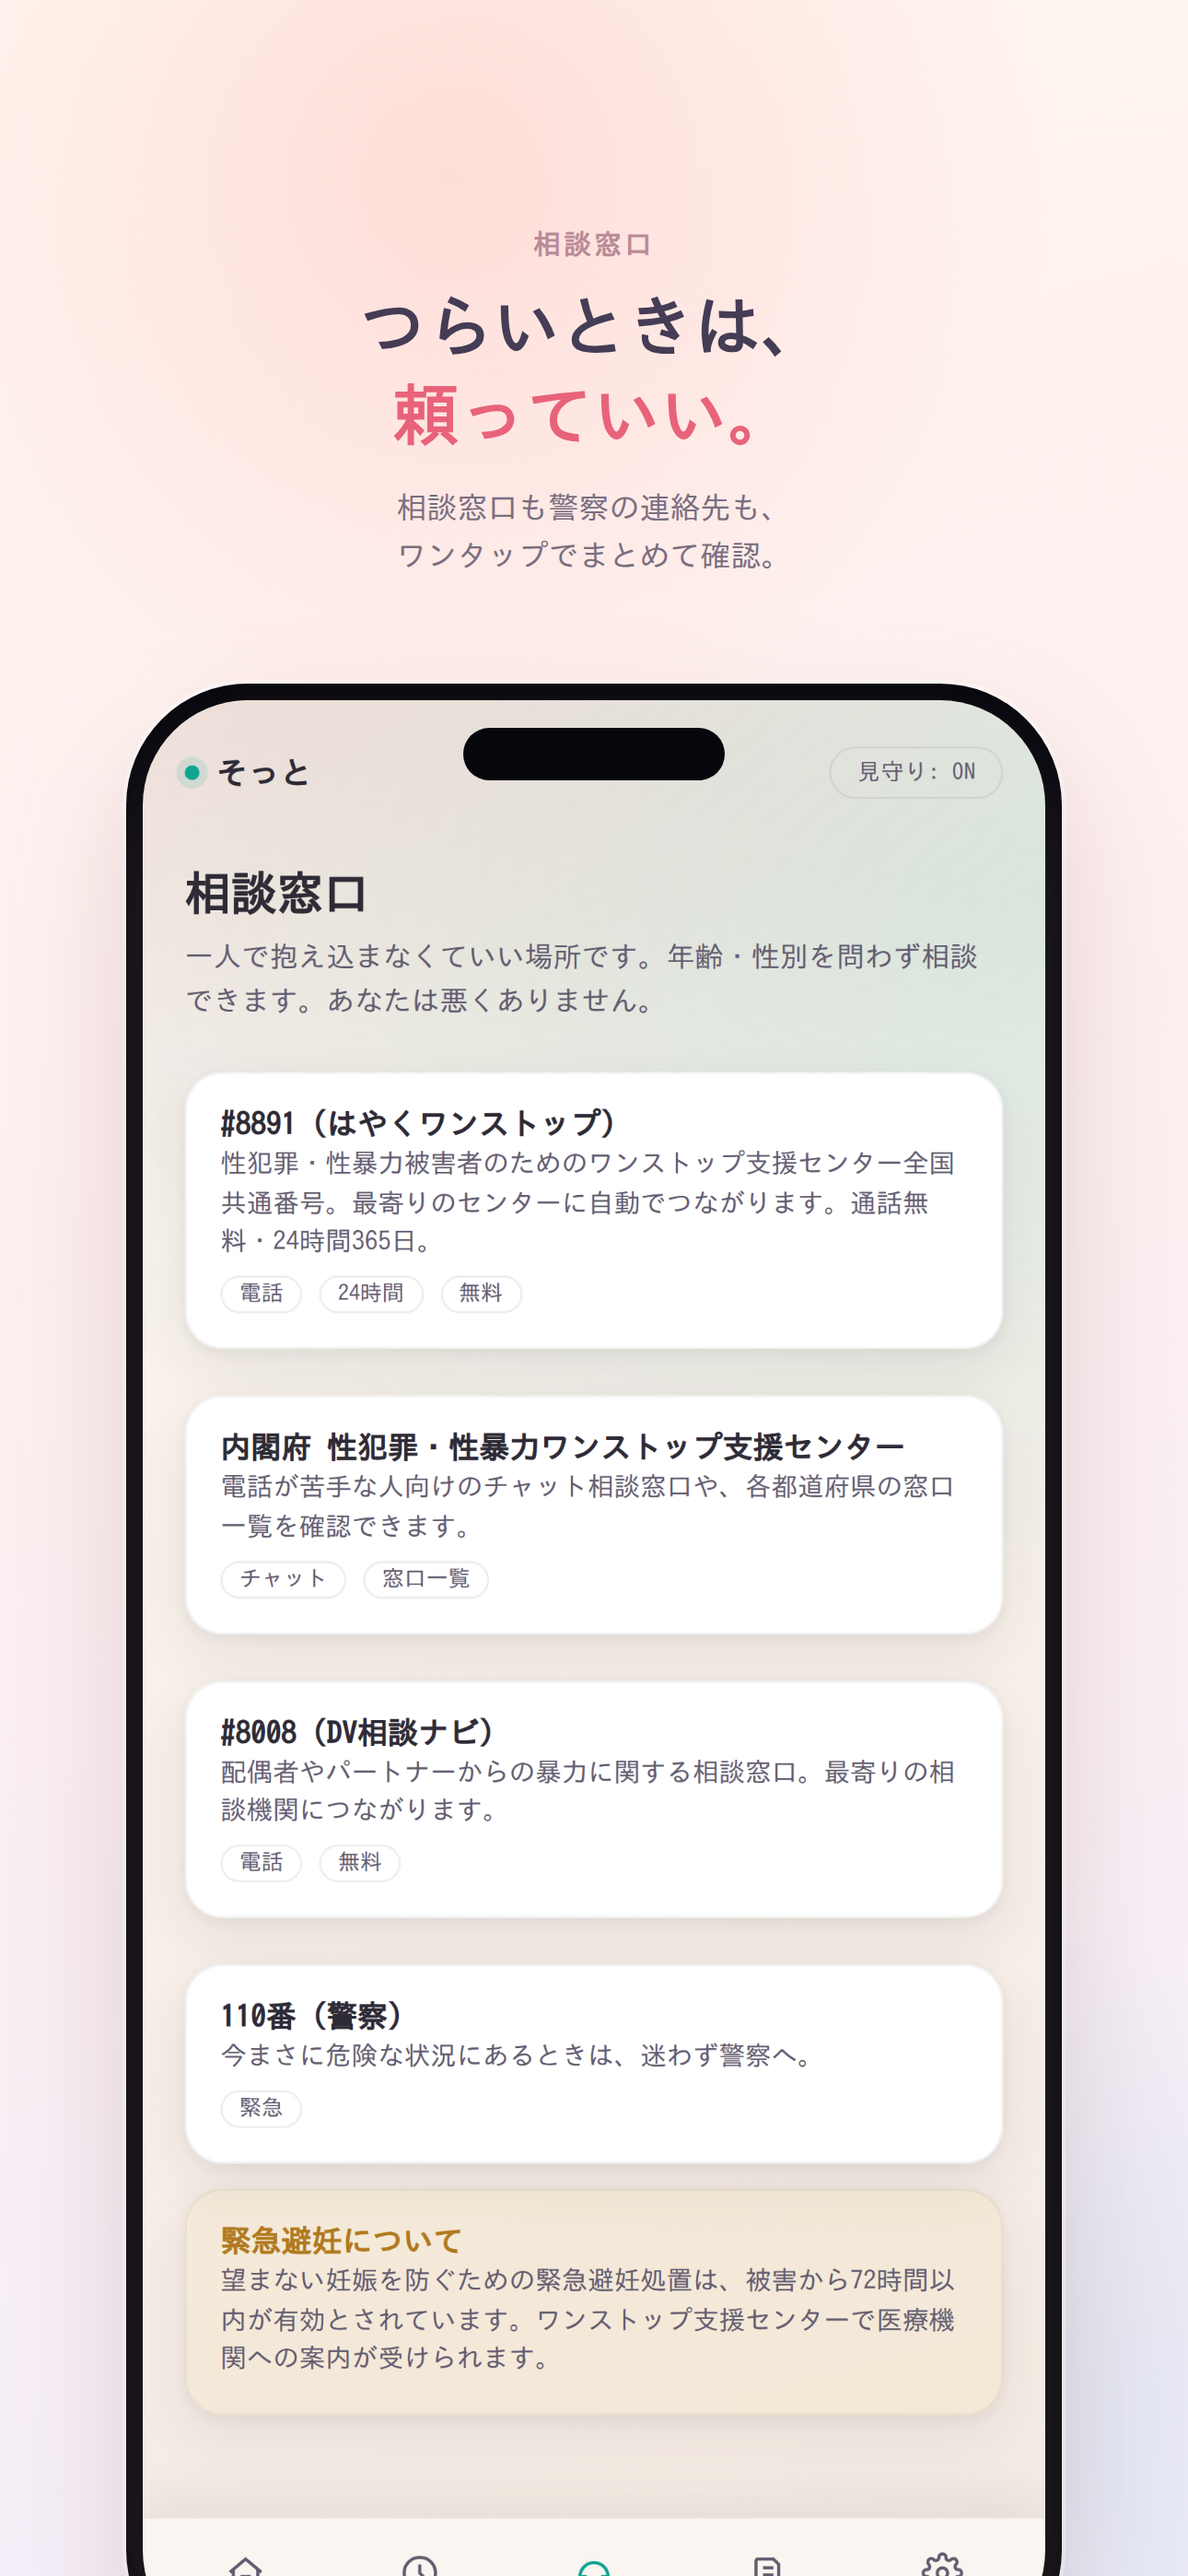
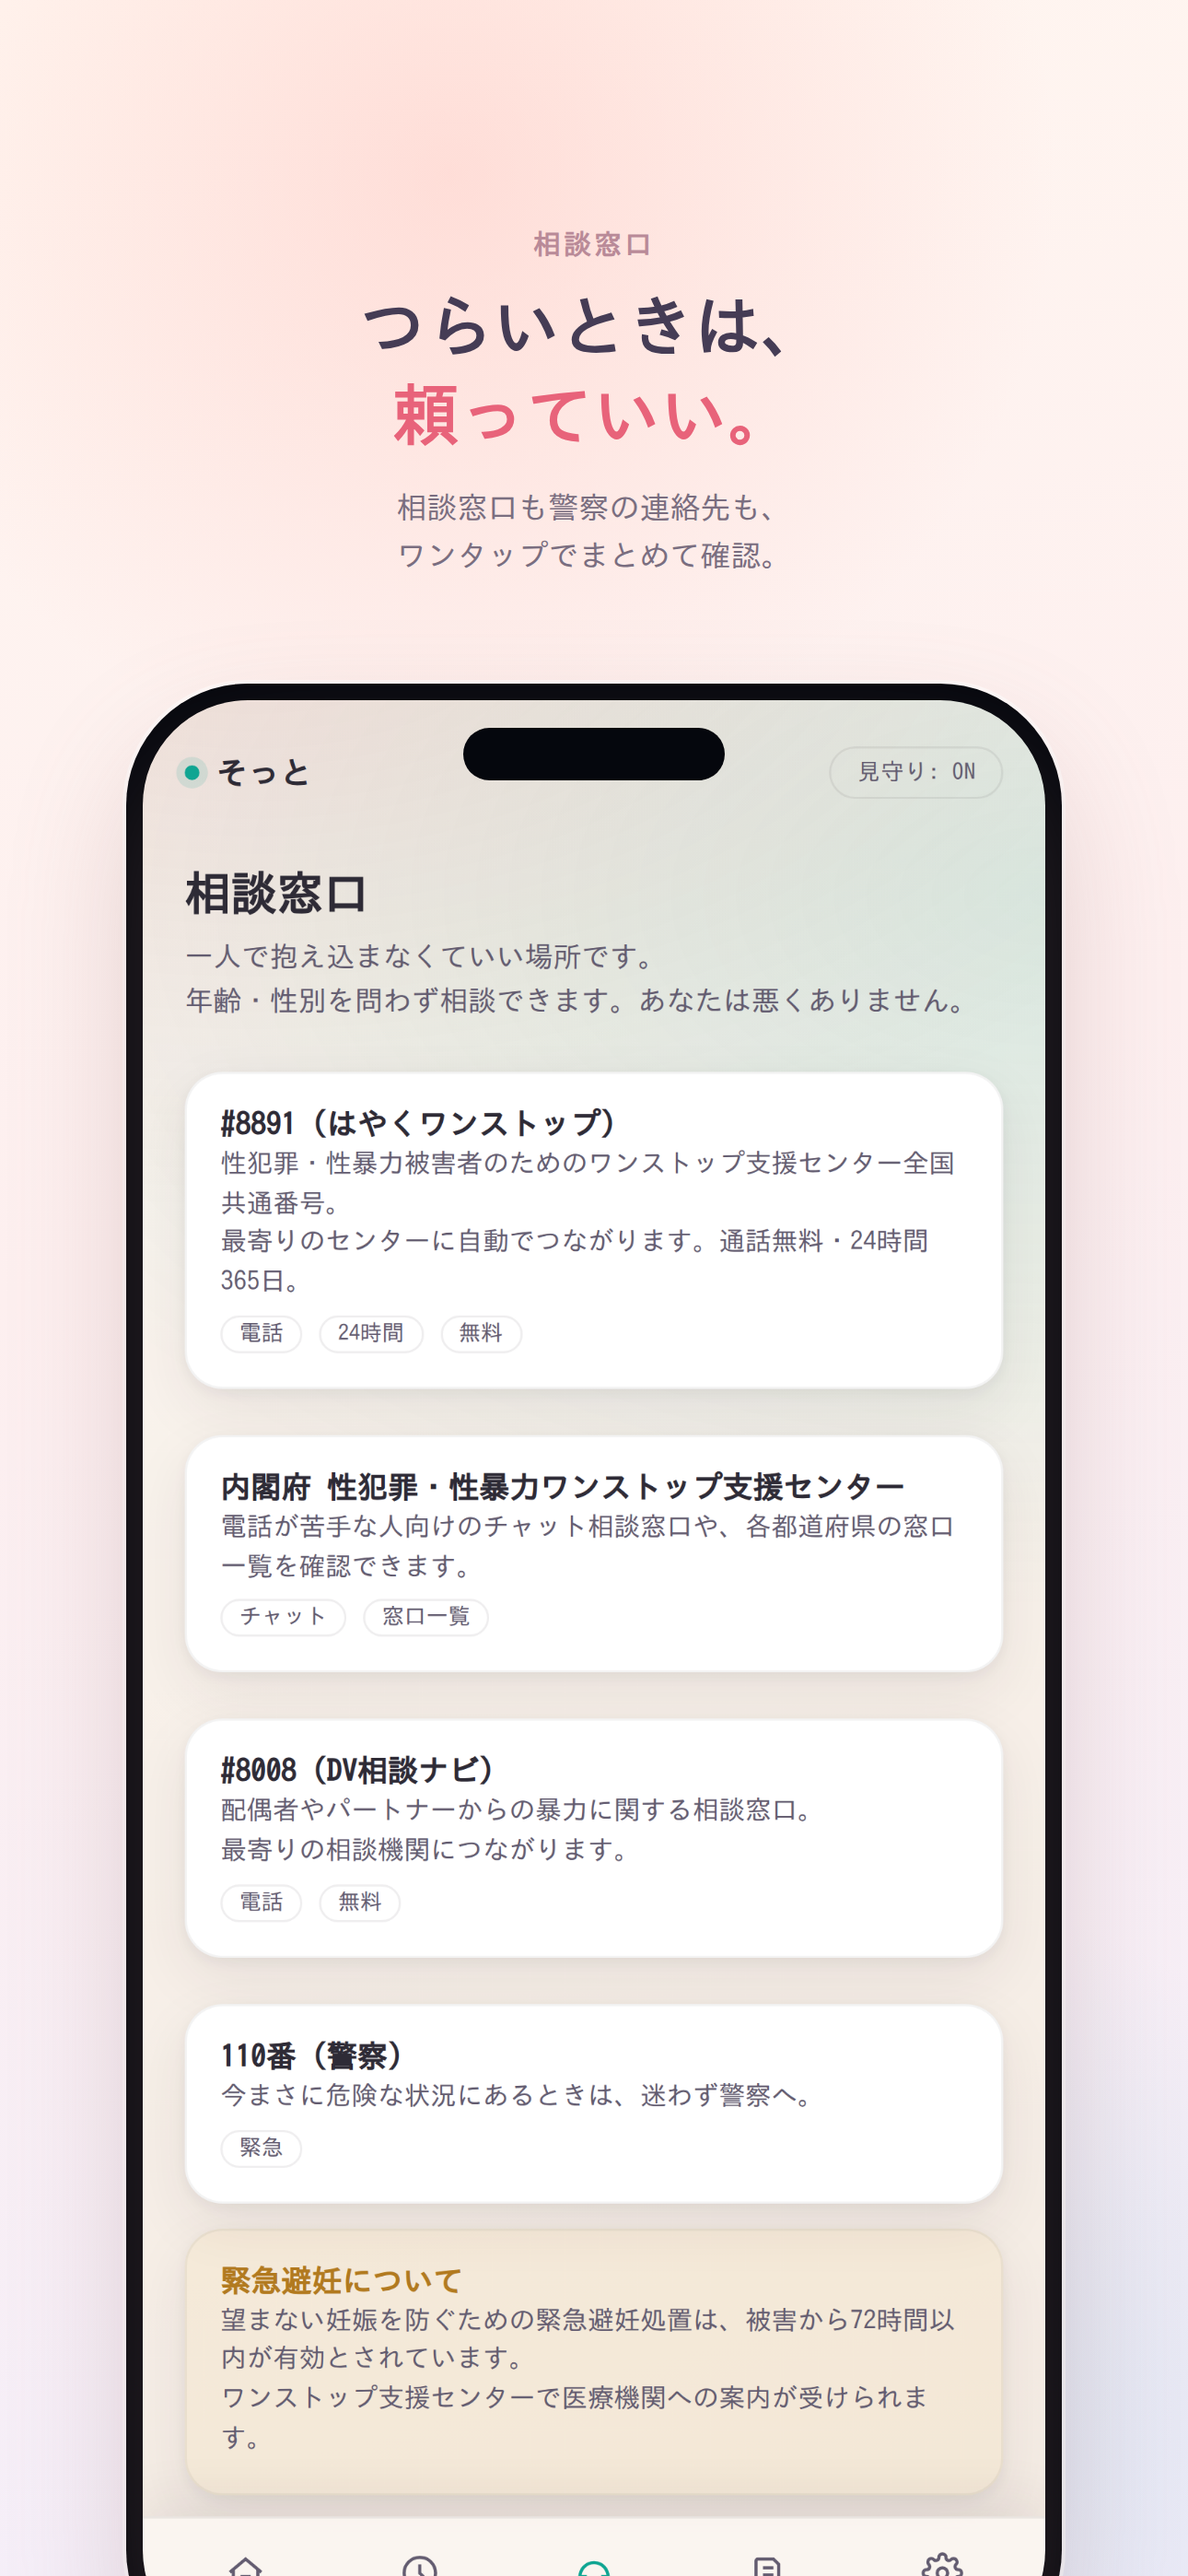
Fix mid-word line breaks in body copy (both prototype and Swift app)
Long description text (Home hero-sub, Settings privacy notice, Journal
intro, Resources cards, etc.) was wrapping at whatever character
happened to land at the container's edge — in a few places that split
a compound word mid-way (e.g. "長押しするだ" / "けで", "暗号" / "化"),
which reads as broken rather than intentional Japanese line-wrapping.

Added manual breaks (<br> in the HTML prototype, \n in the matching
SwiftUI Text views and resources.json) at natural clause/punctuation
boundaries so every long description now wraps at a sentence break
instead of an arbitrary character. Applied to both the prototype and
the real app's source so they stay in sync.

diff --git a/prototype/safeline.html b/prototype/safeline.html
@@ -453,7 +453,7 @@
   <!-- ================= HOME ================= -->
   <div class="screen active" id="screen-home">
     <h1 class="hero">帰るまでが、<br>いちばん大事。</h1>
-    <p class="hero-sub">危ないと感じたら、迷わず押せる場所をここに。長押しするだけで、信頼できる人にそっと知らせが届きます。</p>
+    <p class="hero-sub">危ないと感じたら、迷わず押せる場所をここに。<br>長押しするだけで、信頼できる人にそっと知らせが届きます。</p>
 
     <div class="sos-wrap">
       <div class="sos-ring">
@@ -470,7 +470,7 @@
       <div class="card-row">
         <div>
           <div class="card-title">📍 帰宅チェックイン</div>
-          <div class="card-desc">時間になっても「無事」を押さなければ、あなたが選んだ人に現在地とともにそっと知らせが届きます。</div>
+          <div class="card-desc">時間になっても「無事」を押さなければ、<br>あなたが選んだ人に現在地とともにそっと知らせが届きます。</div>
         </div>
         <span class="chip off" id="checkinChip">オフ</span>
       </div>
@@ -483,7 +483,7 @@
       <div class="card-row">
         <div>
           <div class="card-title">☎ #8891 に電話</div>
-          <div class="card-desc">性犯罪・性暴力被害者のためのワンストップ支援センター。24時間365日・通話無料。</div>
+          <div class="card-desc">性犯罪・性暴力被害者のためのワンストップ支援センター。<br>24時間365日・通話無料。</div>
         </div>
       </div>
       <div style="margin-top:12px; display:flex; gap:8px;">
@@ -531,11 +531,11 @@
   <!-- ================= RESOURCES ================= -->
   <div class="screen" id="screen-resources">
     <h1 class="hero">相談窓口</h1>
-    <p class="hero-sub">一人で抱え込まなくていい場所です。年齢・性別を問わず相談できます。あなたは悪くありません。</p>
+    <p class="hero-sub">一人で抱え込まなくていい場所です。<br>年齢・性別を問わず相談できます。あなたは悪くありません。</p>
 
     <a class="res-item card" href="tel:8891">
       <div class="card-title">#8891（はやくワンストップ）</div>
-      <div class="card-desc">性犯罪・性暴力被害者のためのワンストップ支援センター全国共通番号。最寄りのセンターに自動でつながります。通話無料・24時間365日。</div>
+      <div class="card-desc">性犯罪・性暴力被害者のためのワンストップ支援センター全国共通番号。<br>最寄りのセンターに自動でつながります。通話無料・24時間365日。</div>
       <div class="res-meta"><span class="tag">電話</span><span class="tag">24時間</span><span class="tag">無料</span></div>
     </a>
 
@@ -547,7 +547,7 @@
 
     <a class="res-item card" href="tel:8008">
       <div class="card-title">#8008（DV相談ナビ）</div>
-      <div class="card-desc">配偶者やパートナーからの暴力に関する相談窓口。最寄りの相談機関につながります。</div>
+      <div class="card-desc">配偶者やパートナーからの暴力に関する相談窓口。<br>最寄りの相談機関につながります。</div>
       <div class="res-meta"><span class="tag">電話</span><span class="tag">無料</span></div>
     </a>
 
@@ -559,7 +559,7 @@
 
     <div class="card" style="background:rgba(245,185,66,0.08); border-color:rgba(245,185,66,0.25);">
       <div class="card-title" style="color:var(--amber);">緊急避妊について</div>
-      <div class="card-desc">望まない妊娠を防ぐための緊急避妊処置は、被害から72時間以内が有効とされています。ワンストップ支援センターで医療機関への案内が受けられます。</div>
+      <div class="card-desc">望まない妊娠を防ぐための緊急避妊処置は、被害から72時間以内が有効とされています。<br>ワンストップ支援センターで医療機関への案内が受けられます。</div>
     </div>
   </div>
 
@@ -579,7 +579,7 @@
                 style="display:none; background:none; border:none; color:var(--teal); font-size:18px; cursor:pointer; padding:6px;"
                 title="書き出す">⇧</button>
       </div>
-      <p class="hero-sub">気になったこと、違和感、出来事の日時や状況を、思い出せる範囲で少しずつ残せます。暗号化してこの端末にだけ保存され、クラウドには送りません。誰にも見せなくて大丈夫です。あなたのための記録です。</p>
+      <p class="hero-sub">気になったこと、違和感、出来事の日時や状況を、思い出せる範囲で少しずつ残せます。<br>暗号化してこの端末にだけ保存され、クラウドには送りません。<br>誰にも見せなくて大丈夫です。あなたのための記録です。</p>
 
       <div class="field">
         <label>日時</label>
@@ -608,7 +608,7 @@
   <!-- ================= SETTINGS ================= -->
   <div class="screen" id="screen-settings">
     <h1 class="hero">設定</h1>
-    <p class="hero-sub">アカウント登録はしていません。データはこの端末にのみ暗号化して保存され、サーバーには何も送信されません。</p>
+    <p class="hero-sub">アカウント登録はしていません。<br>データはこの端末にのみ暗号化して保存され、サーバーには何も送信されません。</p>
 
     <div class="settings-group">
       <div class="group-header">ホーム画面</div>

diff --git a/SafeLineiOS/SafeLine/Views/JournalView.swift b/SafeLineiOS/SafeLine/Views/JournalView.swift
@@ -86,7 +86,7 @@ struct JournalView: View {
                         }
                     }
                 }
-                Text("気になったこと、違和感、出来事の日時や状況を、思い出せる範囲で少しずつ残せます。暗号化してこの端末にだけ保存され、クラウドには送りません。誰にも見せなくて大丈夫です。あなたのための記録です。")
+                Text("気になったこと、違和感、出来事の日時や状況を、思い出せる範囲で少しずつ残せます。\n暗号化してこの端末にだけ保存され、クラウドには送りません。\n誰にも見せなくて大丈夫です。あなたのための記録です。")
                     .font(.system(size: 14.5, design: .rounded))
                     .foregroundColor(.safeTextDim)
 

diff --git a/SafeLineiOS/SafeLine/Views/CheckInView.swift b/SafeLineiOS/SafeLine/Views/CheckInView.swift
@@ -25,7 +25,7 @@ struct CheckInView: View {
                         .font(.system(size: 22, weight: .semibold, design: .rounded))
                         .foregroundColor(.safeText)
 
-                    Text("出かける前にセットしておくと、時間になっても「無事です」を押さなければ、あなたが選んだ人にそっと知らせが届きます。")
+                    Text("出かける前にセットしておくと、時間になっても「無事です」を押さなければ、\nあなたが選んだ人にそっと知らせが届きます。")
                         .font(.system(size: 14.5, design: .rounded))
                         .foregroundColor(.safeTextDim)
 

diff --git a/SafeLineiOS/SafeLine/Views/ResourcesView.swift b/SafeLineiOS/SafeLine/Views/ResourcesView.swift
@@ -11,7 +11,7 @@ struct ResourcesView: View {
                     Text("相談窓口")
                         .font(.system(size: 22, weight: .semibold, design: .rounded))
                         .foregroundColor(.safeText)
-                    Text("一人で抱え込まなくていい場所です。年齢・性別を問わず相談できます。あなたは悪くありません。")
+                    Text("一人で抱え込まなくていい場所です。\n年齢・性別を問わず相談できます。あなたは悪くありません。")
                         .font(.system(size: 14.5, design: .rounded))
                         .foregroundColor(.safeTextDim)
 

diff --git a/SafeLineiOS/SafeLine/Views/SettingsView.swift b/SafeLineiOS/SafeLine/Views/SettingsView.swift
@@ -25,7 +25,7 @@ struct SettingsView: View {
         NavigationStack {
             Form {
                 Section {
-                    Text("このアプリはアカウント登録をせず、データはこの端末にのみ暗号化して保存されます。サーバーには何も送信されません。")
+                    Text("このアプリはアカウント登録をせず、\nデータはこの端末にのみ暗号化して保存されます。サーバーには何も送信されません。")
                         .font(.system(size: 13.5, design: .rounded))
                         .foregroundColor(.safeTextDim)
                 }
